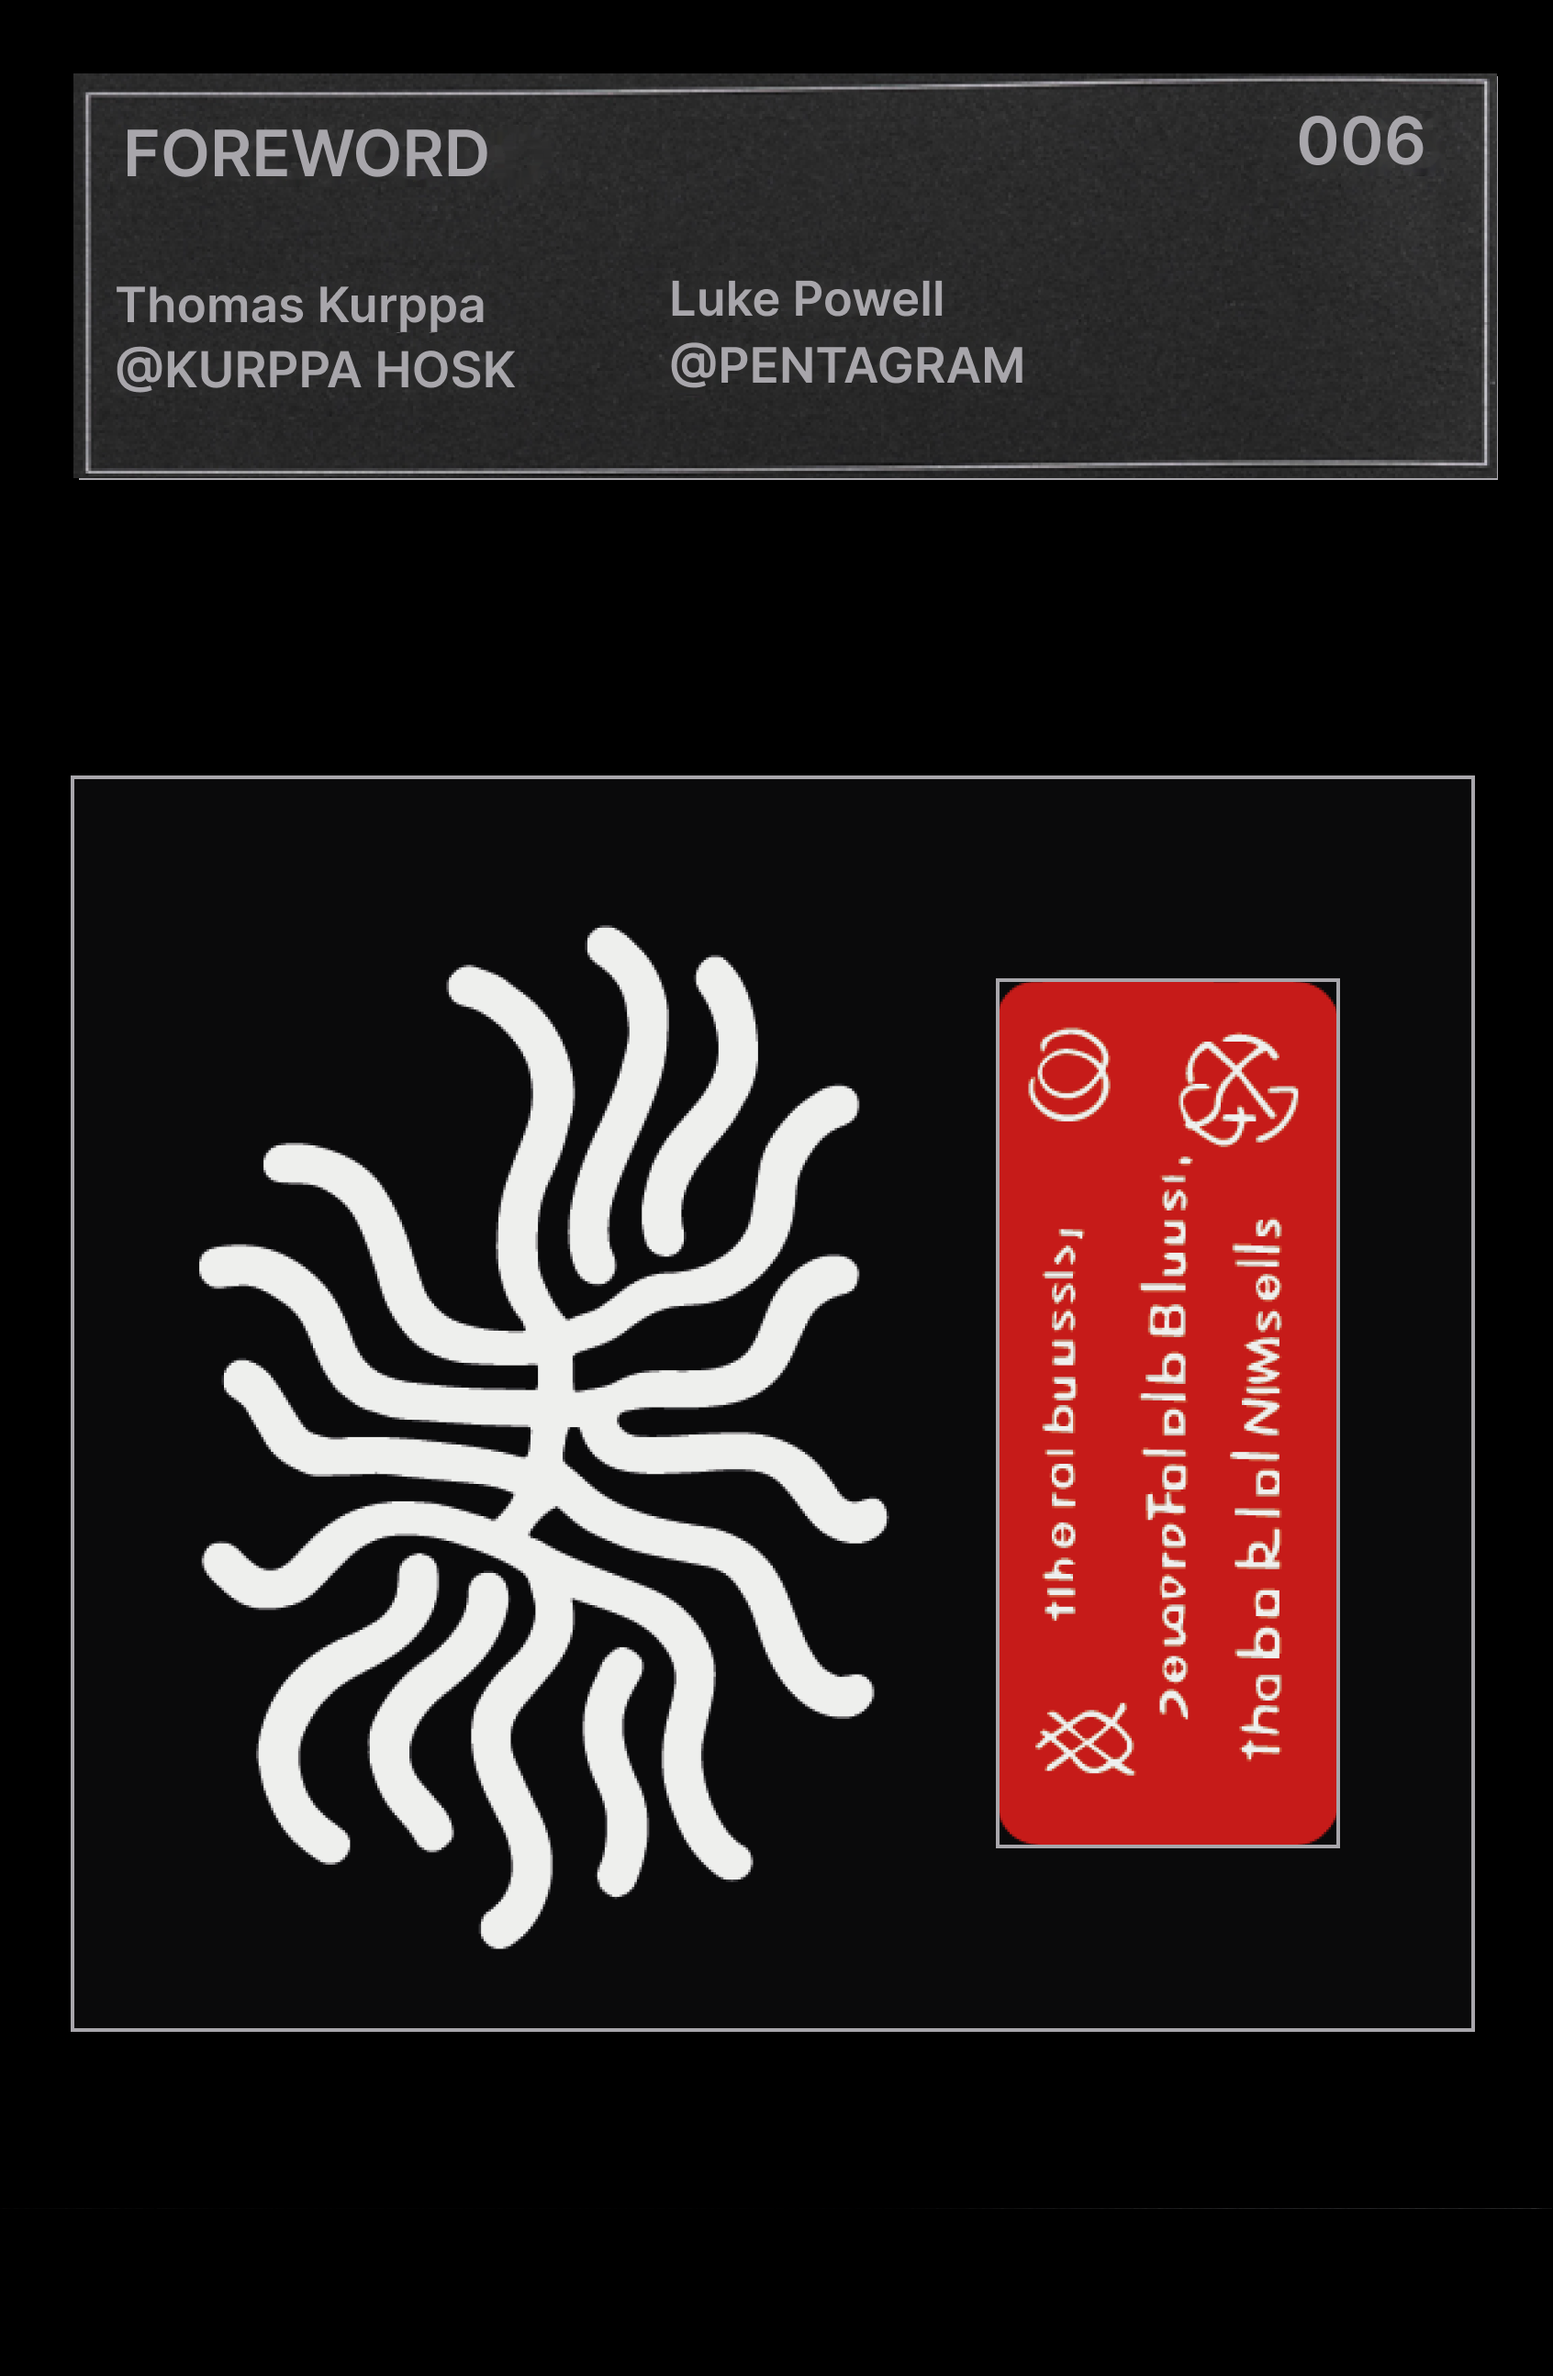
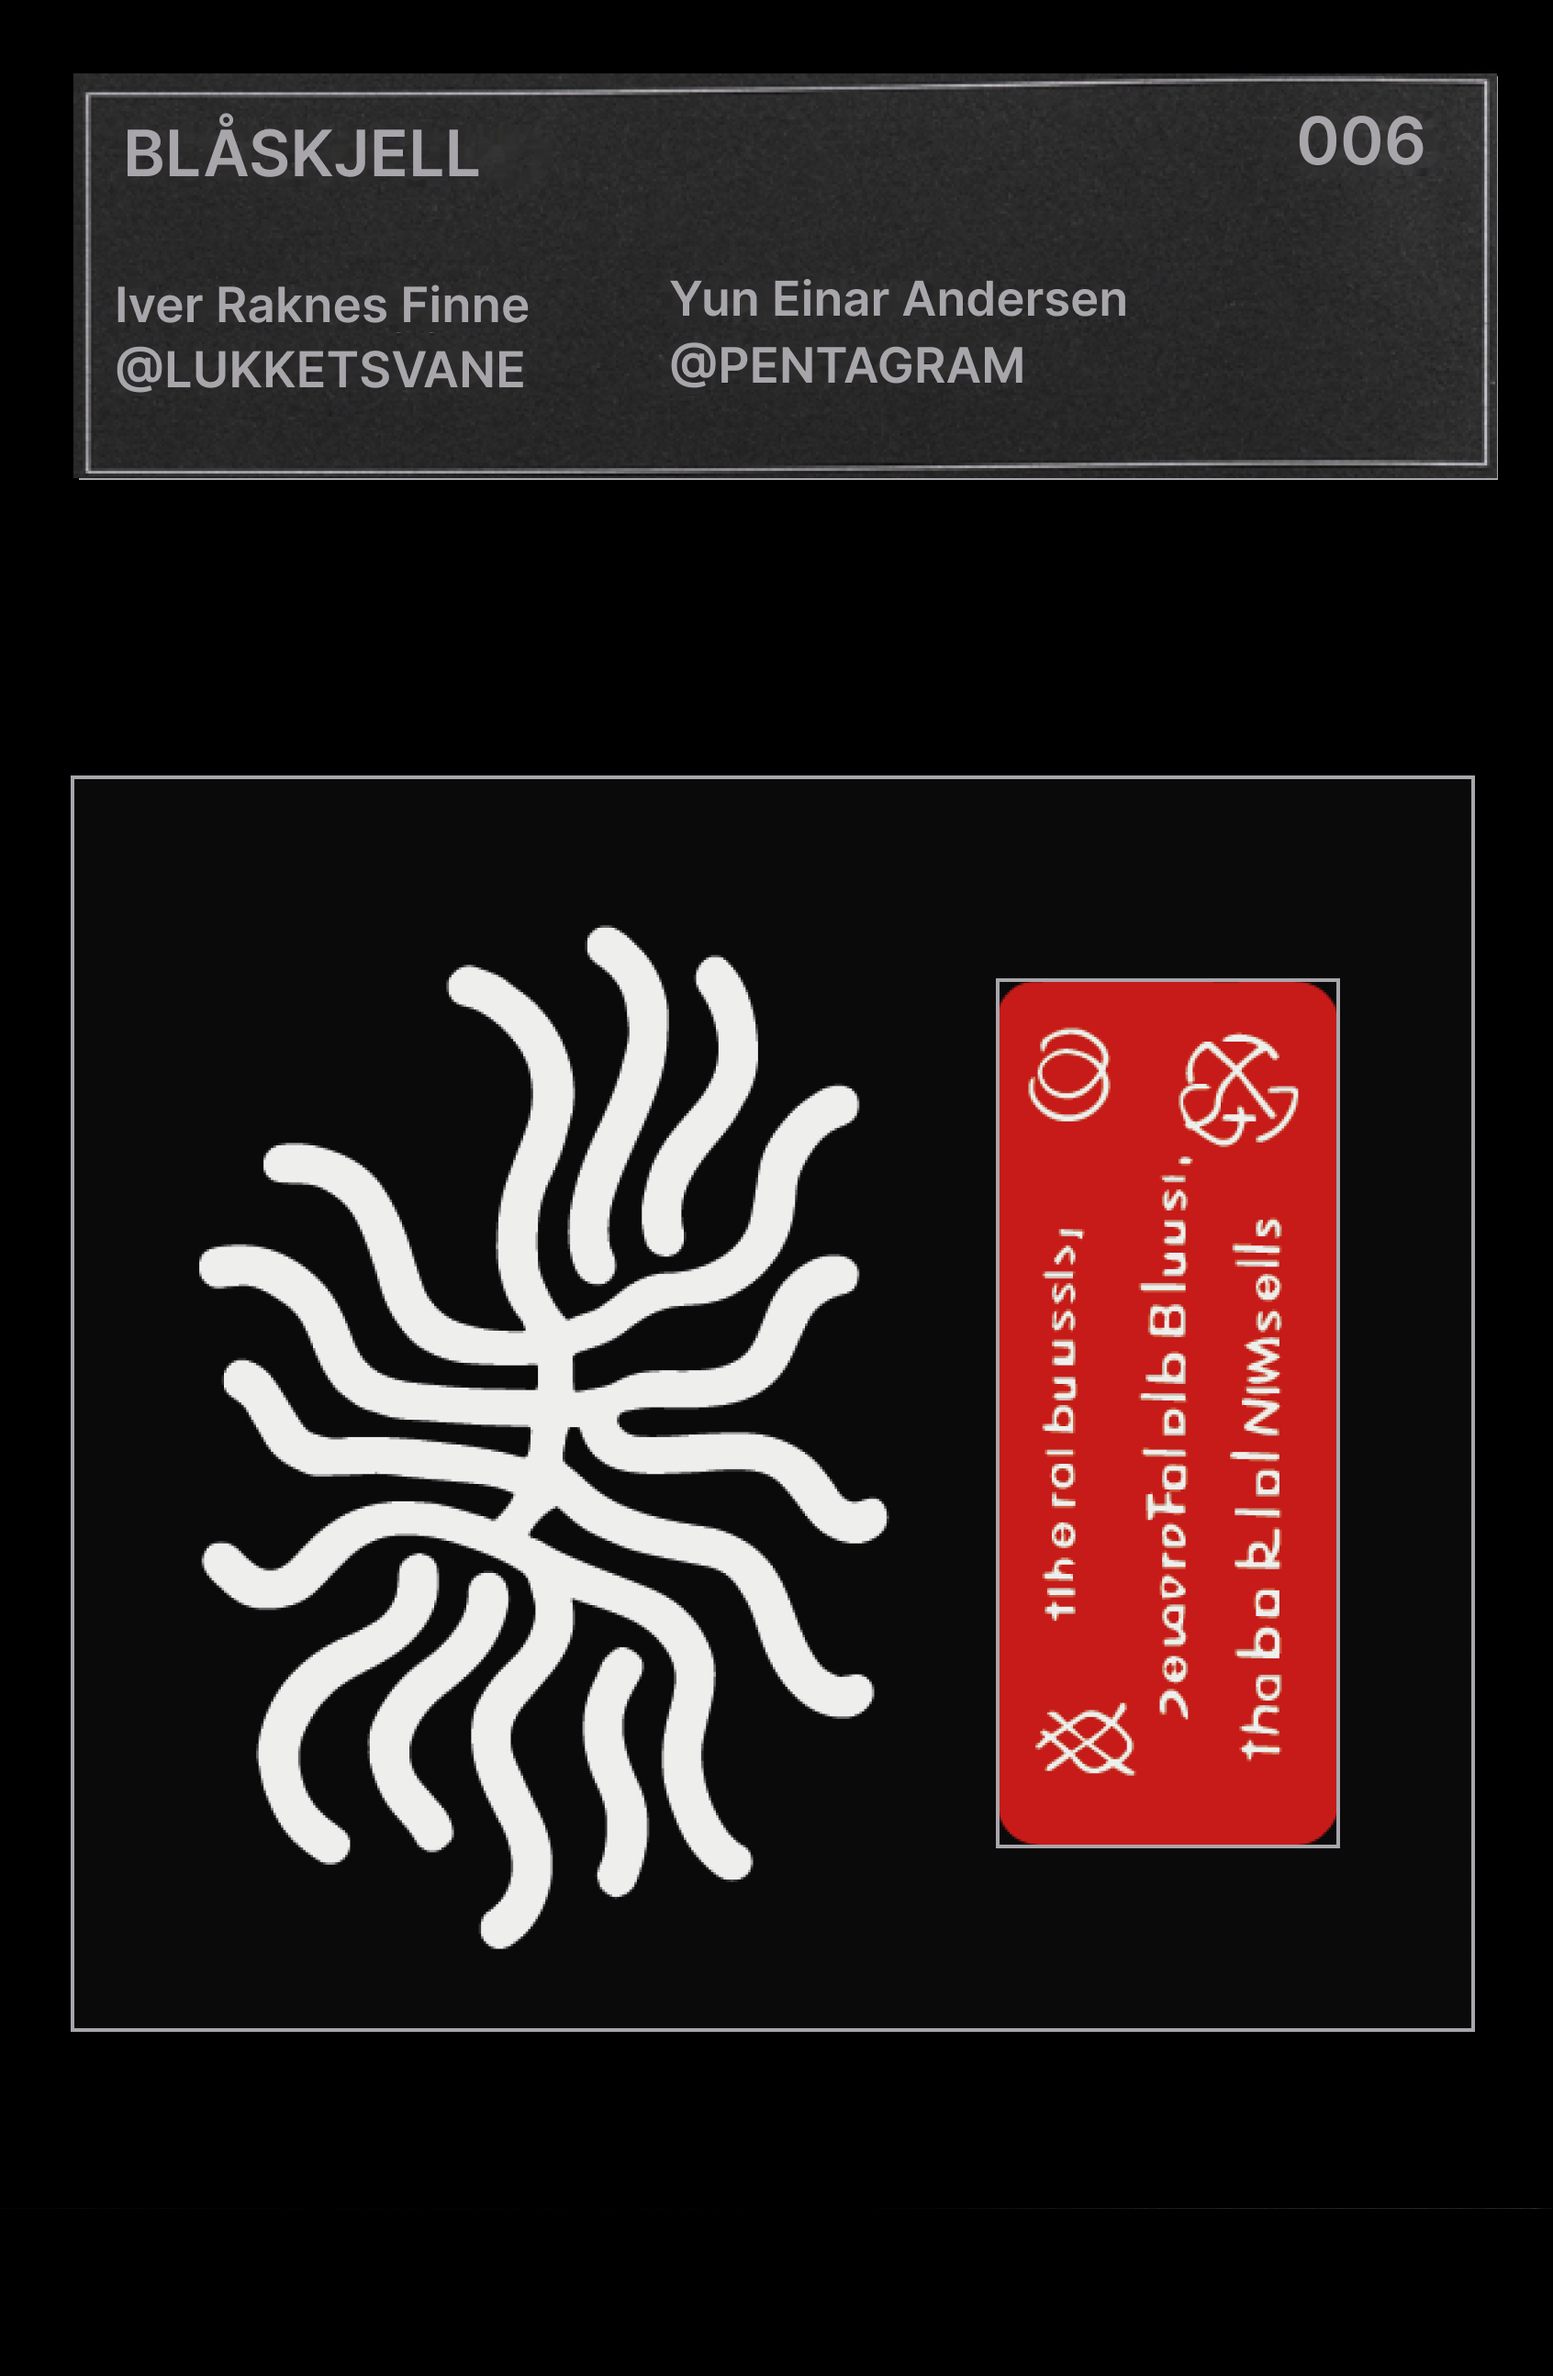
Fix Tailwind CSS configuration and update dependencies

Changed region(s): [[0.0615, 0.1236, 0.3381, 0.1854], [0.4303, 0.0927, 0.7069, 0.1545], [0.0922, 0.0309, 0.2766, 0.0927]]

diff --git a/components/header.tsx b/components/header.tsx
@@ -2,9 +2,6 @@
 
 import React, { useState, useEffect } from 'react'
 import Link from 'next/link'
-import { Input } from "@/components/ui/input"
-import { Button } from "@/components/ui/button"
-import { Search } from "lucide-react"
 
 interface HeaderProps {
   activeTab: string
@@ -15,25 +12,25 @@ export function Header({ activeTab, setActiveTab }: HeaderProps) {
   const [letters, setLetters] = useState<Array<{ char: string, delay: number }>>([])
 
   useEffect(() => {
-    const title = 'mussled'
+    const title = 'blåskjell'
     const newLetters = title.split('').map(char => ({
       char,
-      delay: Math.random() * 0.5 // Random delay between 0 and 0.5 seconds
+      delay: Math.random() * 0.3 // Random delay between 0 and 0.3 seconds
     }))
     setLetters(newLetters)
   }, [])
 
   return (
     <header className="bg-white">
-      <div className="container mx-auto px-4 pt--20 -mx-4 pb-10 relative">
-        <h1 className="text-[6rem] md:text-[14rem] lg:text-[25rem] font-bold text-center leading-none relative h-[20rem] pointer-events-none" aria-label="mussled">
+      <div className="container mx-auto px-0 pt-0 pb-2 md:pb-10 relative">
+        <h1 className="text-[5rem] md:text-[14rem] lg:text-[25rem] font-bold text-center leading-none relative h-[4rem] md:h-[10rem] pointer-events-none" aria-label="blåskjell">
           {letters.map((letter, index) => (
             <span
               key={index}
               className="inline-block text-black absolute select-none"
               style={{
-                left: `${(index / letters.length) * 100}%`,
-                animation: `fall 0.5s ease-in-out ${letter.delay}s forwards`,
+                left: `${(index / letters.length) * 90}%`,
+                animation: `fall 0.2s ease-in-out ${letter.delay}s forwards`,
                 opacity: 0,
               }}
               aria-hidden="true"
@@ -45,33 +42,21 @@ export function Header({ activeTab, setActiveTab }: HeaderProps) {
       </div>
       <div className="border-t-2 border-b-2 border-black relative z-10">
         <div className="container mx-auto px-4 py-2">
-          <div className="flex flex-col md:flex-row justify-between items-center">
-            <nav className="flex flex-col md:flex-row space-y-2 md:space-y-0 md:space-x-6 mb-2 md:mb-0 w-full md:w-auto">
-              {['avløsning', 'fjære', 'bølgesus'].map((tab) => (
-                <Link 
-                  key={tab}
-                  href="#" 
-                  className={`text-2xl font-black w-full md:w-auto text-center md:text-left ${activeTab === tab ? 'text-black' : 'text-gray-600 hover:text-black'}`}
-                  onClick={(e) => {
-                    e.preventDefault()
-                    setActiveTab(tab)
-                  }}
-                >
-                  {tab}
-                </Link>
-              ))}
-            </nav>
-            <div className="flex items-center w-full md:w-auto">
-              <Input
-                type="search"
-                placeholder="Search"
-                className="w-full md:w-64 border-black focus:ring-black focus:border-black"
-              />
-              <Button size="icon" variant="outline" className="border-black hover:bg-gray-100">
-                <Search className="h-4 w-4" />
-              </Button>
-            </div>
-          </div>
+          <nav className="flex justify-end space-x-6">
+            {['avløsning', 'fjære', 'bølgesus'].map((tab) => (
+              <Link 
+                key={tab}
+                href="#" 
+                className={`text-sm md:text-2xl font-black ${activeTab === tab ? 'text-black' : 'text-gray-600 hover:text-black'}`}
+                onClick={(e) => {
+                  e.preventDefault()
+                  setActiveTab(tab)
+                }}
+              >
+                {tab}
+              </Link>
+            ))}
+          </nav>
         </div>
       </div>
     </header>

diff --git a/components/avlosning.tsx b/components/avlosning.tsx
@@ -2,44 +2,42 @@ import React from 'react'
 import Image from 'next/image'
 
 const posters = [
-  { id: 1, title: 'blur', image: '/illustrated/kråke.png?height=450&width=300' },
-  { id: 2, title: 'david bowie', image: '/illustrated/flamingo.png?height=450&width=300' },
-  { id: 3, title: 'television', image: '/illustrated/bakterie.png?height=450&width=300' },
-  { id: 4, title: 'white flag', image: '/illustrated/kval.png?height=450&width=300' },
-  { id: 5, title: 'the replacements', image: '/placeholder.svg?height=450&width=300' },
-  { id: 6, title: 'the velvet underground', image: '/placeholder.svg?height=450&width=300' },
-  { id: 7, title: 'public enemy', image: '/placeholder.svg?height=450&width=300' },
-  { id: 8, title: 'pixies', image: '/placeholder.svg?height=450&width=300' },
-  { id: 9, title: 'pearl jam', image: '/placeholder.svg?height=450&width=300' },
-  { id: 10, title: 'joy division', image: '/placeholder.svg?height=450&width=300' },
-  { id: 11, title: 'sex pistols', image: '/placeholder.svg?height=450&width=300' },
-  { id: 12, title: 'the modern lovers', image: '/placeholder.svg?height=450&width=300' },
-  { id: 13, title: 'black flag', image: '/placeholder.svg?height=450&width=300' },
-  { id: 14, title: 'the runaways', image: '/placeholder.svg?height=450&width=300' },
-  { id: 15, title: 'ziggy stardust', image: '/placeholder.svg?height=450&width=300' },
+  { id: 1, title: 'kråke', image: '/illustrated/kråke.png' },
+  { id: 2, title: 'flamingo', image: '/illustrated/flamingo.png' },
+  { id: 3, title: 'bakterie', image: '/illustrated/skjell-symbol.png' },
+  { id: 4, title: 'kval', image: '/illustrated/kval.png' },
+  { id: 5, title: 'algae', image: '/illustrated/algae.png' },
+  { id: 6, title: 'kval-og-krill', image: '/illustrated/kval-og-krill.png' },
+  { id: 7, title: 'orden', image: '/illustrated/orden.png' },
+  { id: 8, title: 'orden-2', image: '/illustrated/orden-2.png' },
+  { id: 9, title: 'orden-3', image: '/illustrated/' },
+  { id: 10, title: 'orden-3-1', image: '/illustrated/orden-3-1.png' },
+  { id: 11, title: 'skjell-skjold', image: '/illustrated/skjell-skjold.png' },
 ]
 
 export function Avlosning() {
   return (
-    <div className="grid grid-cols-1 md:grid-cols-5 gap-2 md:gap-4">
-      {[0, 1, 2].map((row) => (
-        <React.Fragment key={row}>
-          {posters.slice(row * 5, (row + 1) * 5).map((poster, index) => (
-            <div key={poster.id} className="flex flex-col">
-              <Image
-                src={poster.image}
-                alt={poster.title}
-                width={300}
-                height={450}
-                className="w-full h-auto"
-              />
-              {row < 2 && (
-                <div className="h-1 bg-black mt-2 mb-4" />
-              )}
-            </div>
-          ))}
-        </React.Fragment>
-      ))}
+    <div className="mt-4 -mx-2"> {/* Changed to mt-4 and added negative margin on x-axis */}
+      <div className="grid grid-cols-1 md:grid-cols-5 gap-2 md:gap-4">
+        {[0, 1, 2].map((row) => (
+          <React.Fragment key={row}>
+            {posters.slice(row * 5, (row + 1) * 5).map((poster, index) => (
+              <div key={poster.id} className="flex flex-col">
+                <Image
+                  src={poster.image}
+                  alt={poster.title}
+                  width={300}
+                  height={450}
+                  className="w-full h-auto"
+                />
+                {row < 2 && (
+                  <div className="h-1 bg-black mt-2 mb-4" />
+                )}
+              </div>
+            ))}
+          </React.Fragment>
+        ))}
+      </div>
     </div>
   )
 }
